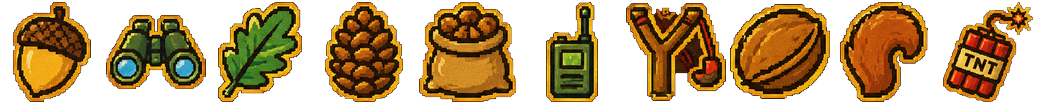
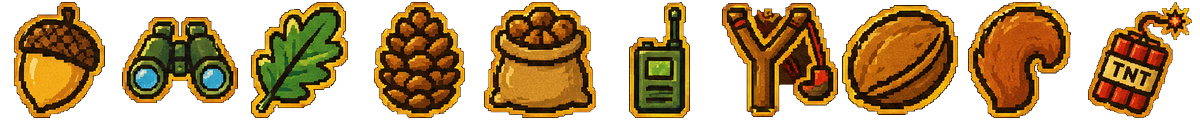
preview (not live): v3.16.1 Secret Squirrels symbols drawn larger (112 px in the 140 px boxes)
Claude-Session: https://claude.ai/code/session_01KmGxi5FWQEcSyM2TCx745j

diff --git a/secret-squirrels.html b/secret-squirrels.html
@@ -96,9 +96,9 @@ let cells=[],dragging=false,last=null,lastSfx=0,coverPx=null,grains=[],seed=1,ra
 // seeded random so the same ticket scatters the same way (no hidden randomness in play)
 function rnd(){seed|=0;seed=seed+0x6D2B79F5|0;let t=Math.imul(seed^seed>>>15,1|seed);t=t+Math.imul(t^t>>>7,61|t)^t;return((t^t>>>14)>>>0)/4294967296;}
 function hash(x,y){let h=(x*374761393+y*668265263)|0;h=Math.imul(h^h>>>13,1274126177);return((h^h>>>16)>>>0)/4294967296;}
-// The 10 symbols, in the order of secret-squirrels-symbols.png (104 px cells).
+// The 10 symbols, in the order of secret-squirrels-symbols.png (120 px cells).
 const SYMBOLS=['acorn','binoculars','oak-leaf','pinecone','sack-of-nuts','walkie-talkie','slingshot','walnut','squirrel-tail','tnt'];
-const SYM={cell:104,size:96};                 // drawn 96 px inside the 140 px boxes
+const SYM={cell:120,size:112};                // drawn 112 px inside the 140 px boxes
 const symSheet=new Image(),symCv=document.getElementById('symbols'),symCx=symCv.getContext('2d');
 let ticketNo=0,deal={};
 // DEMO deal only: a seeded shuffle per ticket so the look can be judged. No prizes, odds or rules yet.
@@ -108,7 +108,7 @@ function dealSymbols(){
  for(const w of WINDOWS){if(w.kind==='bonus')continue;const k=Math.floor(r()*SYMBOLS.length);deal[w.id]=SYMBOLS[k];
   if(symSheet.complete&&symSheet.naturalWidth)symCx.drawImage(symSheet,k*SYM.cell,0,SYM.cell,SYM.cell,w.x+(w.w-SYM.size)/2,w.y+(w.h-SYM.size)/2,SYM.size,SYM.size);}
 }
-symSheet.onload=dealSymbols;symSheet.src='secret-squirrels-symbols.png?v=3.16.1';
+symSheet.onload=dealSymbols;symSheet.src='secret-squirrels-symbols.png?v=3.16.1b';
 function setup(){
  dealSymbols();
  seed=20261124;grains=[];cx.clearRect(0,0,1024,1536);crumbs.clearRect(0,0,1024,1536);
